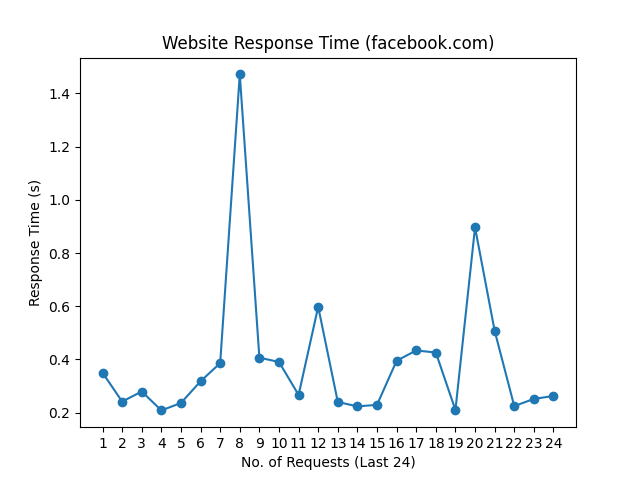
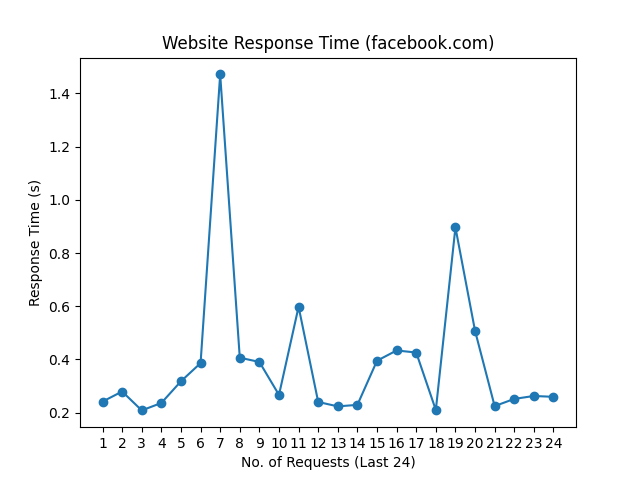
update README.md, history and graph

Changed region(s): [[0.1562, 0.125, 0.875, 0.875]]

diff --git a/README.md b/README.md
@@ -1,10 +1,10 @@
 # Web Monitoring
 
-Last Checked: 03/02/2024 08:58
+Last Checked: 04/02/2024 09:04
 
 | Website | Response Time (s) | Status | Avg Uptime (%) |
 |---------|-------------------|--------|----------------|
 | www.thiswebsiteisdown.net | 0 <br> <img src="graph/thiswebsiteisdown.net.png" alt="Graph" width="200" height="200">  | ❌ Down | 0.00 |
-| www.netflix.com | 0.605266 <br> <img src="graph/netflix.com.png" alt="Graph" width="200" height="200">  | ✅ Up | 100.00 |
-| www.google.com | 0.129412 <br> <img src="graph/google.com.png" alt="Graph" width="200" height="200">  | ✅ Up | 100.00 |
-| www.facebook.com | 0.262880 <br> <img src="graph/facebook.com.png" alt="Graph" width="200" height="200">  | ✅ Up | 100.00 |
+| www.netflix.com | 0.412815 <br> <img src="graph/netflix.com.png" alt="Graph" width="200" height="200">  | ✅ Up | 100.00 |
+| www.google.com | 0.076282 <br> <img src="graph/google.com.png" alt="Graph" width="200" height="200">  | ✅ Up | 100.00 |
+| www.facebook.com | 0.259707 <br> <img src="graph/facebook.com.png" alt="Graph" width="200" height="200">  | ✅ Up | 100.00 |
